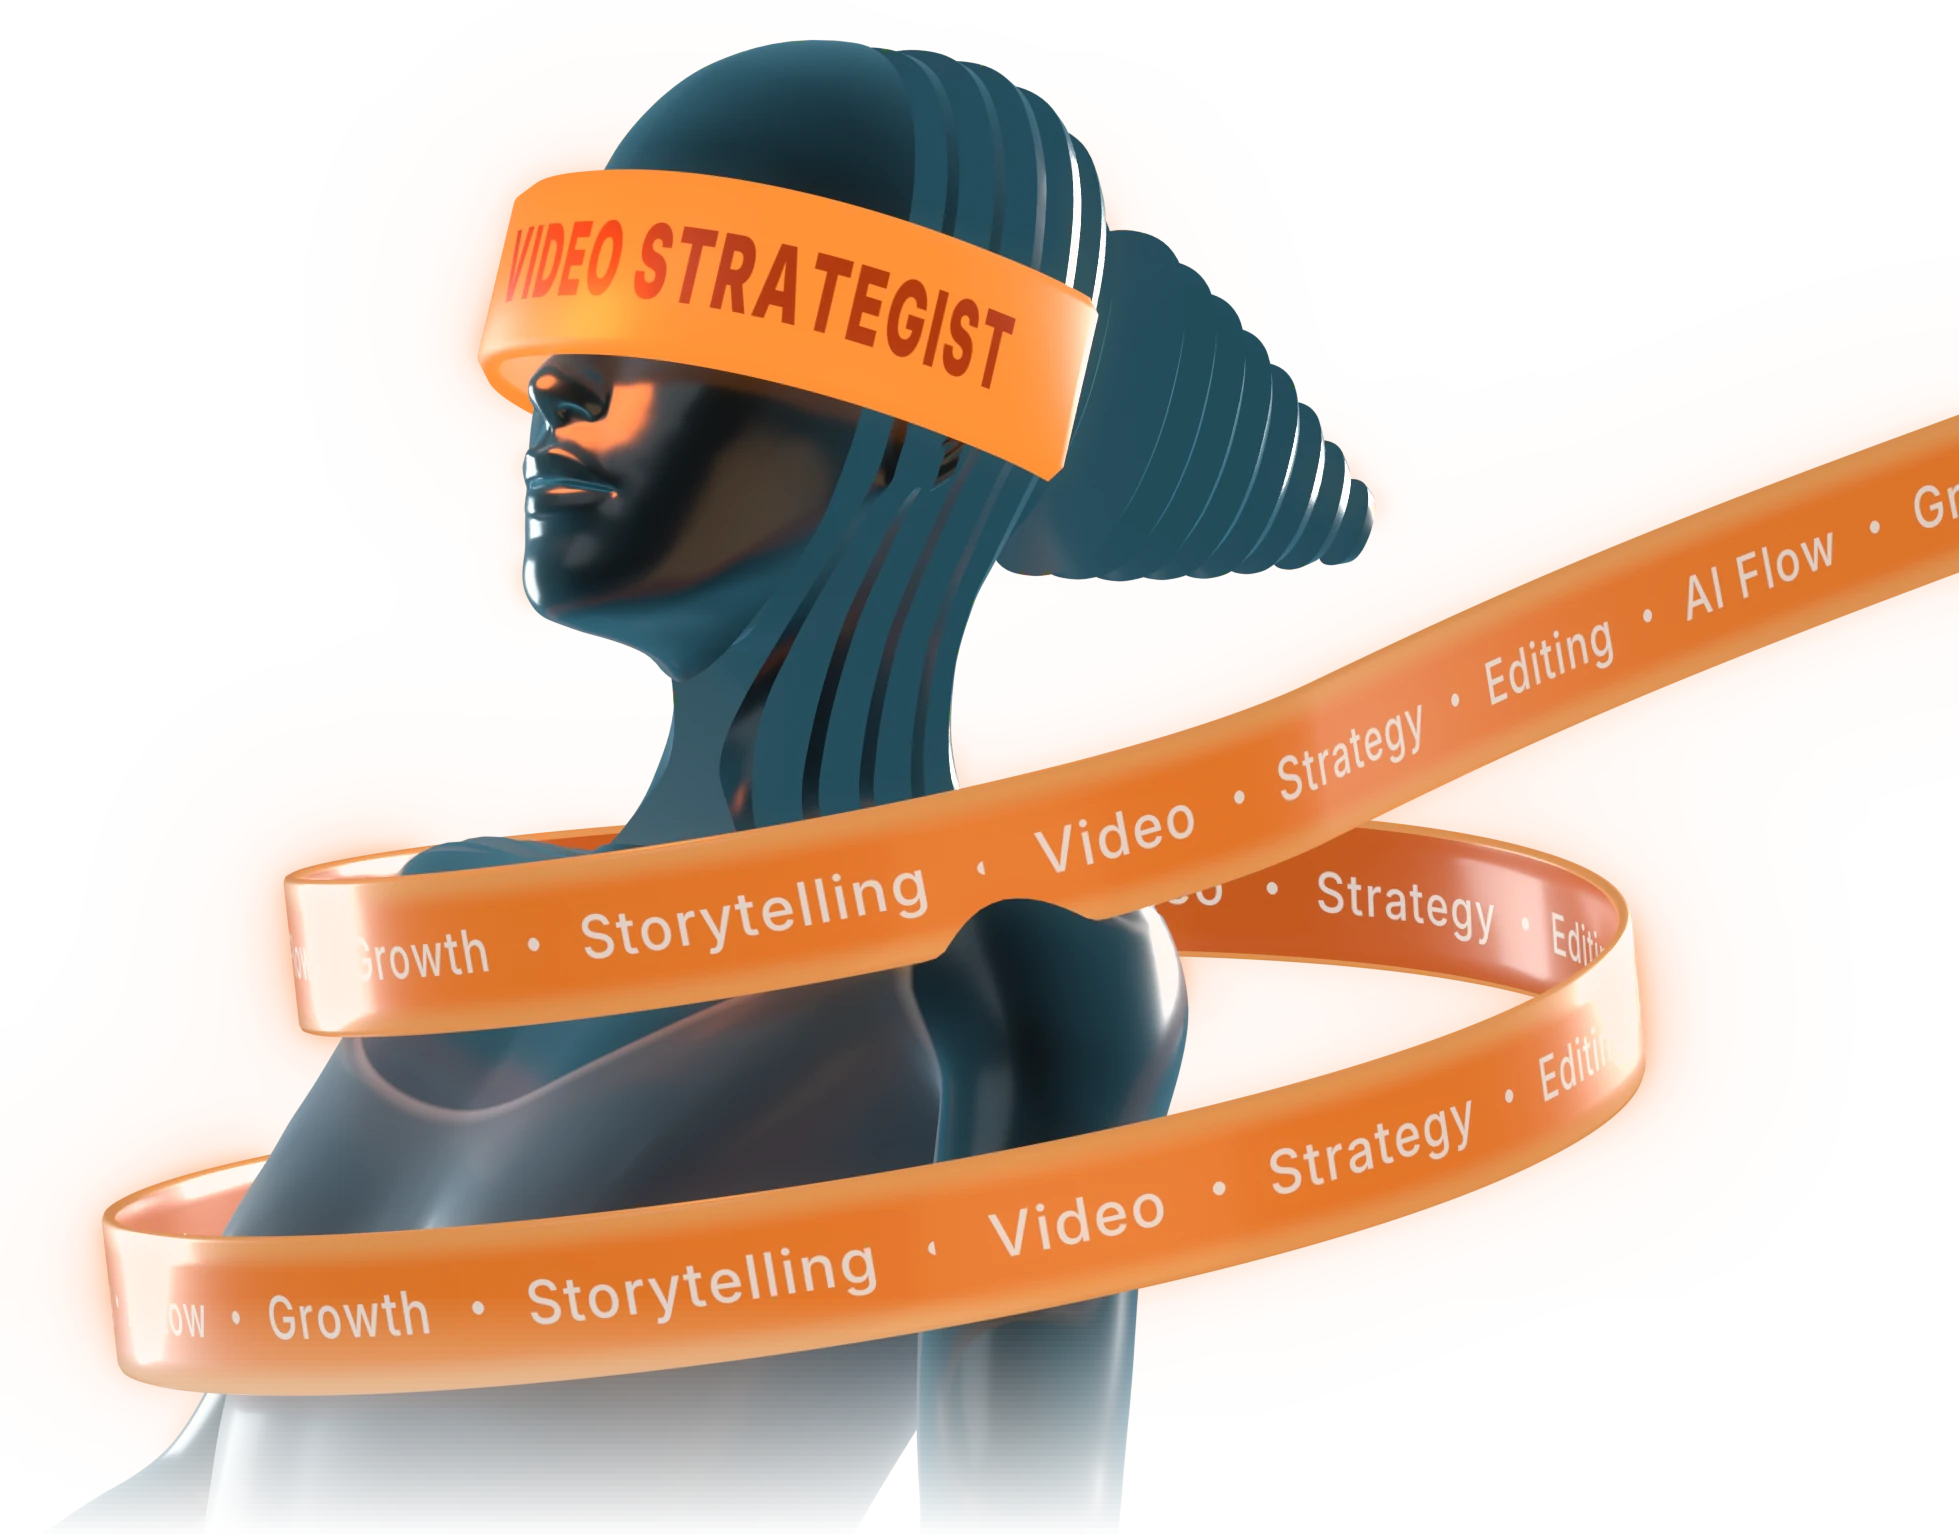
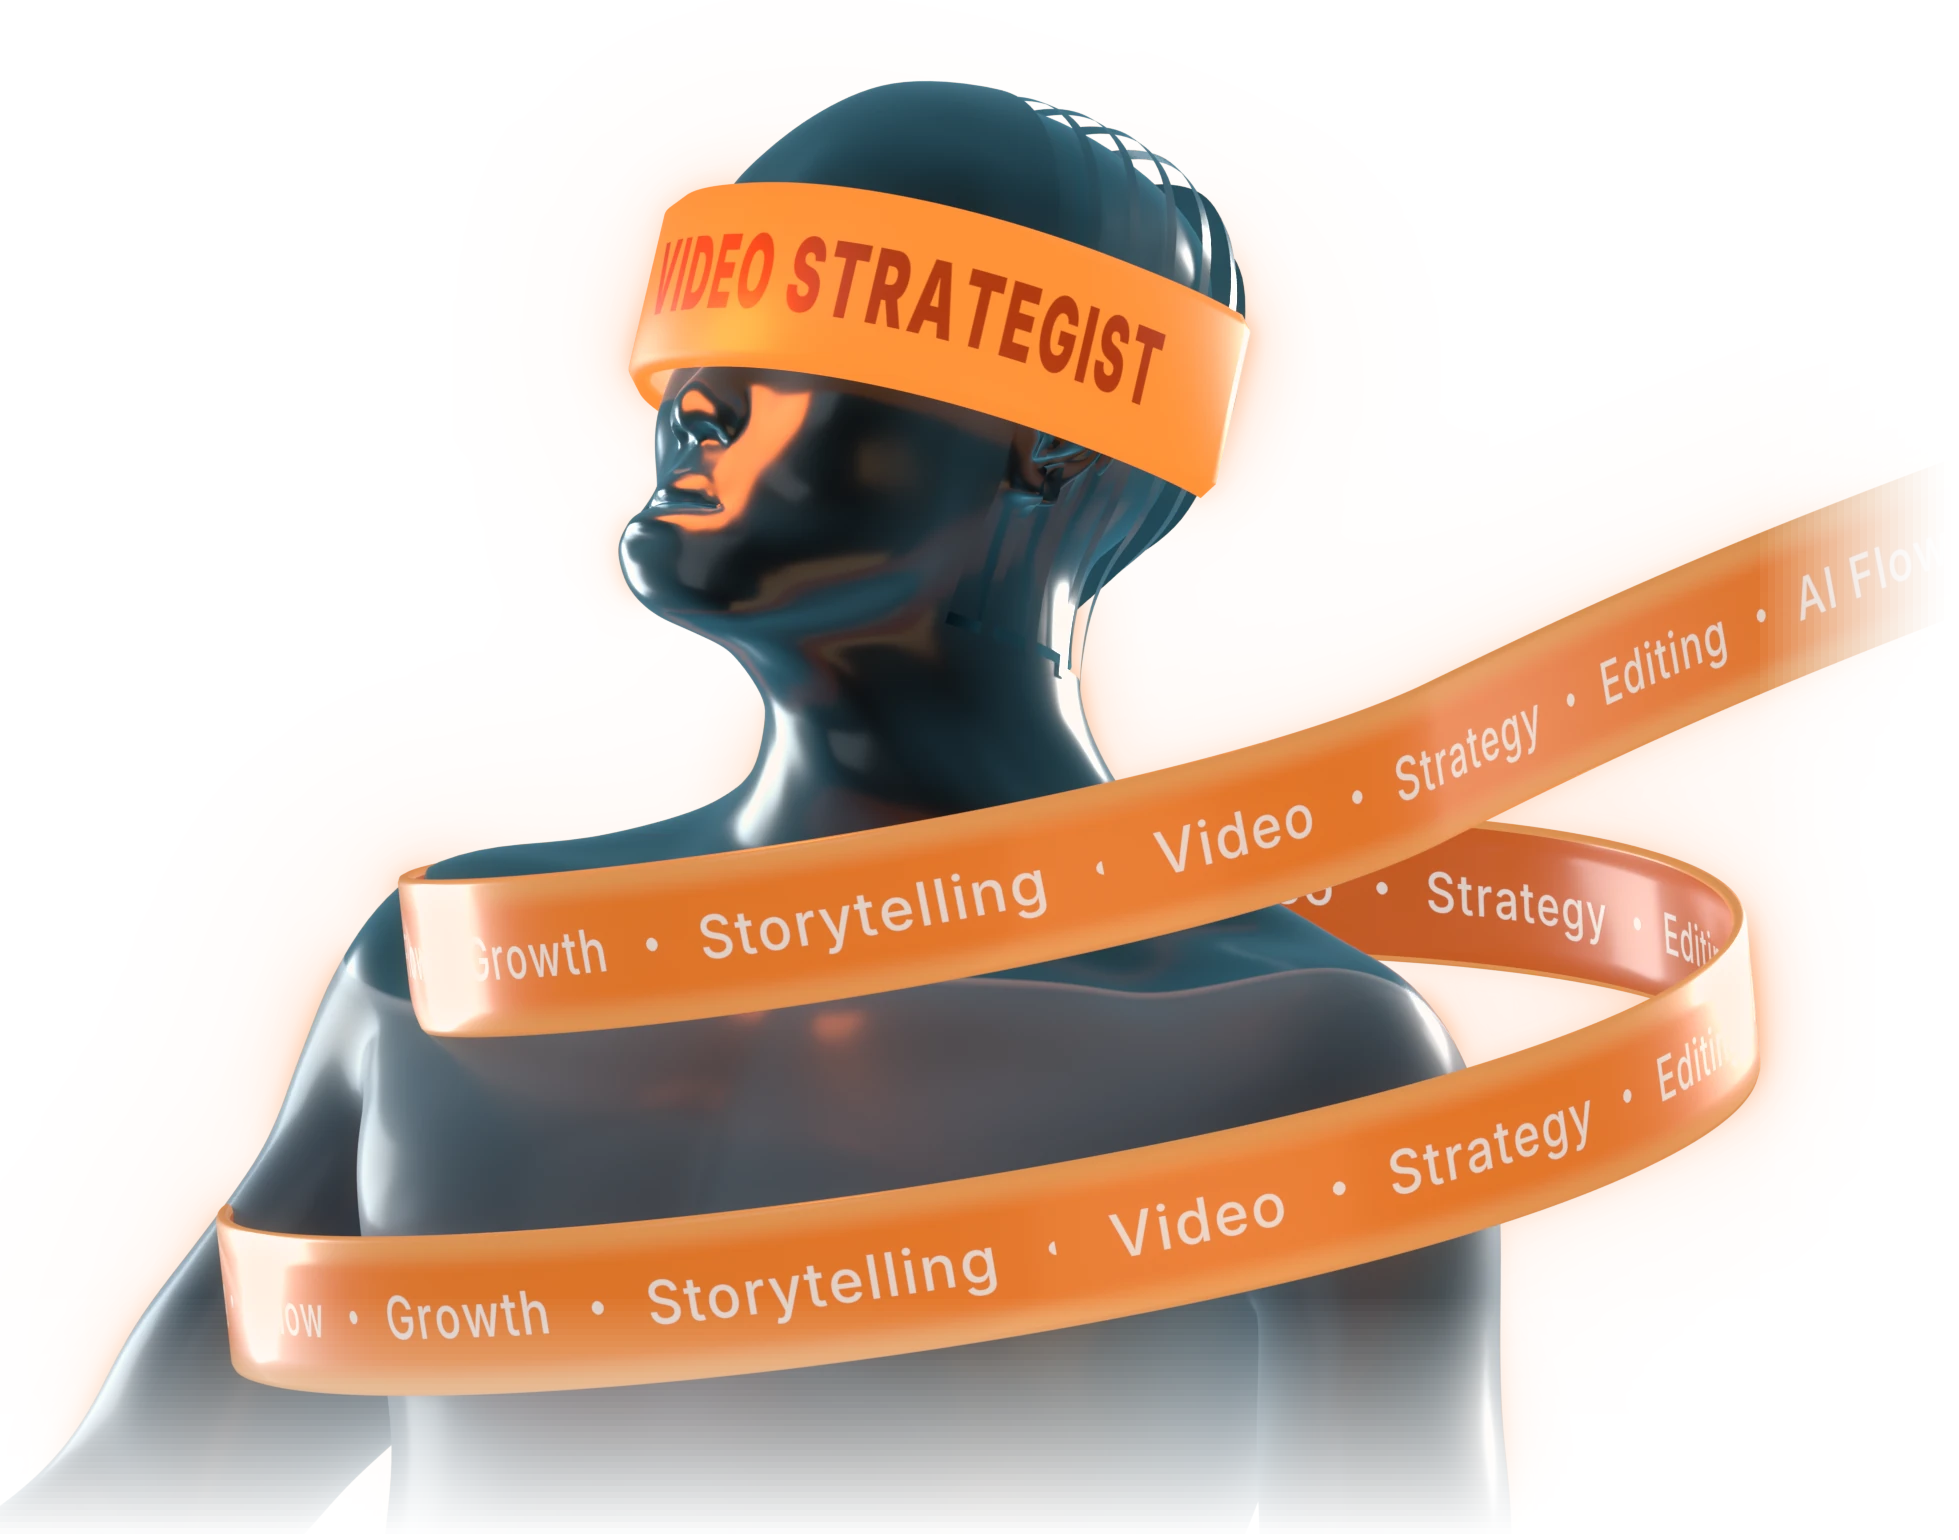
feat: make hero 3D character male (broader build, bald sliced head)
Claude-Session: https://claude.ai/code/session_01LaHUpMwY4YrQAK6Z1nxs6Q

diff --git a/src/components/01-Overview/HeroRibbon.tsx b/src/components/01-Overview/HeroRibbon.tsx
@@ -164,8 +164,8 @@ export default function HeroRibbon() {
           animate={{ opacity: 1, y: 0 }}
           transition={{ duration: 1.2, delay: 0.25, ease: EASE }}
           className="relative z-10 mt-4 h-[60vh] w-full
-                     lg:absolute lg:bottom-0 lg:left-[40%] lg:mt-0 lg:h-[80%] lg:w-auto lg:aspect-[1400/1100]
-                     xl:left-[30%] xl:h-[88%]"
+                     lg:absolute lg:bottom-0 lg:left-[34%] lg:mt-0 lg:h-[80%] lg:w-auto lg:aspect-[1400/1100]
+                     xl:left-[32%] xl:h-[88%]"
         >
           {/* Mobile: khung rộng hơn màn hình, canh giữa theo thân người */}
           <div className="absolute bottom-0 left-1/2 aspect-[1400/1100] h-full -translate-x-[38%] lg:static lg:translate-x-0">

diff --git a/tools/hero-3d/build.py b/tools/hero-3d/build.py
@@ -3,6 +3,8 @@
 #   https://raw.githubusercontent.com/makehumancommunity/makehuman/master/makehuman/data/3dobjs/base.obj
 # Chạy:  python build.py -- 1.4 96 final   →  python post.py final.png final-out.png  →  đổi final-out.png sang .webp
 # Đổi chữ: sửa VISOR_TXT (chữ trên kính) và words (chữ trên ruy băng) bên dưới rồi render lại.
+# Hình thể nam: cần thêm 2 file morph (CC0) từ MPFB2 đặt cạnh file này: asian-male-young.target.gz và
+#   universal-male-young-maxmuscle-averageweight.target.gz (src/mpfb/data/targets/macrodetails trong repo makehumancommunity/mpfb2)
 import bpy, bmesh, math, sys, os, collections
 from mathutils import Vector, Matrix
 from PIL import Image, ImageDraw, ImageFont
@@ -25,11 +27,22 @@ for l in open(OUT+'/base.obj'):
         idx=[int(t.split('/')[0])-1 for t in l.split()[1:]]
         if g=='body': faces.append(idx)
         elif g=='helper-l-eye': eye+=idx
+# male body shape: MakeHuman/MPFB2 morph targets (CC0)
+import gzip
+def target(name,w):
+    for l in gzip.open(OUT+'/'+name+'.target.gz','rt'):
+        t=l.split()
+        if len(t)!=4 or t[0].startswith('#'): continue
+        i=int(t[0]); dx,dy,dz=(float(v) for v in t[1:])
+        x,y,z=vs[i]; vs[i]=(x+dx*w,y-dz*w,z+dy*w)
+target('asian-male-young',1.0)
+target('universal-male-young-maxmuscle-averageweight',float(os.environ.get('MUSCLE','0.8')))
+EYEZ=sum(vs[i][2] for i in eye)/len(eye); EYEY=min(vs[i][1] for i in eye)
 used=sorted({i for f in faces for i in f}); remap={i:k for k,i in enumerate(used)}
 def smooth(a,b,x):
     t=max(0,min(1,(x-a)/(b-a))); return t*t*(3-2*t)
 for sign in (1,-1):
-    piv=Vector((sign*1.62,0.25,5.72))
+    piv=Vector((sign*1.62*1.0,0.25,5.72+(EYEZ-7.284)))
     def posed(ang):
         out=[]
         for (x,y,z) in vs:
@@ -41,8 +54,19 @@ for sign in (1,-1):
     A=math.radians(float(os.environ.get('ARM','20')))
     c1=posed(A*sign); c2=posed(-A*sign)
     vs=c1 if max(v[0]*sign for v in c1)<max(v[0]*sign for v in c2) else c2
+# masculine build: broader shoulders/chest, thicker neck; torso turned less than the head
+TW=math.radians(float(os.environ.get('TWIST','24')))
+_new=[]
+for (x,y,z) in vs:
+    wb=1-smooth(EYEZ-1.75,EYEZ-1.25,z)            # 1 on torso, 0 on head/neck
+    wn=smooth(EYEZ-1.9,EYEZ-1.45,z)*(1-smooth(EYEZ-0.95,EYEZ-0.6,z))   # neck band
+    x*=1+0.13*wb+0.14*wn; y=0.2+(y-0.2)*(1+0.06*wb+0.12*wn)
+    wt=1-smooth(EYEZ-1.7,EYEZ-0.85,z)             # torso twist weight
+    a=TW*wt; cx_,cy_=0.0,0.15
+    dx,dy=x-cx_,y-cy_
+    _new.append((cx_+dx*math.cos(a)-dy*math.sin(a), cy_+dx*math.sin(a)+dy*math.cos(a), z))
+vs=_new
 me=bpy.data.meshes.new("body"); me.from_pydata([vs[i] for i in used],[],[[remap[i] for i in f] for f in faces]); me.update()
-EYEZ=sum(vs[i][2] for i in eye)/len(eye); EYEY=min(vs[i][1] for i in eye)
 body=link(bpy.data.objects.new("body",me))
 mod=body.modifiers.new("s",'SUBSURF'); mod.levels=2; mod.render_levels=2
 dg=bpy.context.evaluated_depsgraph_get(); em=bpy.data.meshes.new_from_object(body.evaluated_get(dg))
@@ -59,11 +83,14 @@ def cut(bm,co,no,sharp=True):
     ed=[e for e in r['geom_cut'] if isinstance(e,bmesh.types.BMEdge)]
     if ed:
         f=bmesh.ops.triangle_fill(bm,edges=ed,use_beauty=True)
-        for x in f['geom']:
-            if isinstance(x,bmesh.types.BMFace): x.smooth=False
+        nf=[x for x in f['geom'] if isinstance(x,bmesh.types.BMFace)]
+        if not nf:
+            ed=[e for e in ed if e.is_valid and e.is_boundary]
+            nf=bmesh.ops.holes_fill(bm,edges=ed,sides=0)['faces'] if ed else []
+        for x in nf: x.smooth=False
         for e in ed: e.smooth=False
 Y0=HF+ (HB-HF)*0.40          # where slicing begins (just in front of the ear)
-ZC=EYEZ-1.75                 # fins only above this height (shoulder line)
+ZC=EYEZ-0.92                 # fins only above this height (shoulder line)
 for f in src.faces: f.smooth=True
 parts=[]
 a=src.copy(); cut(a,Vector((0,Y0,0)),Vector((0,1,0))); parts.append(a)                     # front
@@ -75,23 +102,34 @@ slabs=[]
 while y<HB+0.05:
     s=hb.copy(); cut(s,Vector((0,y,0)),Vector((0,-1,0))); cut(s,Vector((0,y+T,0)),Vector((0,1,0)))
     if len(s.faces):
-        sc_=1.0+0.045*min(k,8)
+        sc_=1.0+0.02*min(k,8)
         for v in s.verts:
-            if v.co.z>ZC+0.9:
-                w=min(1,(v.co.z-(ZC+0.9))/0.8)
+            if True:
+                w=1
                 v.co.x*=1+(sc_-1)*w; v.co.z=ZH+(v.co.z-ZH)*(1+(sc_-1)*w)
         parts.append(s); slabs.append((s,y))
     y+=T+G; k+=1
 # floating plates beyond the skull
-for s0,y0_ in reversed(slabs):
-    t_=s0.copy(); cut(t_,Vector((0,0,EYEZ-0.75)),Vector((0,0,-1)))
-    if len(t_.verts)>40 and max(v.co.z for v in t_.verts)-min(v.co.z for v in t_.verts)>1.2: s0=t_; break
-ylast=slabs[-1][1]; print("slabs",len(slabs),"base slab y",y0_,"last",ylast)
-for i,f in enumerate((0.95,0.88,0.8,0.7,0.6,0.48,0.36,0.24)):
-    s=s0.copy()
-    cx=0; cz=EYEZ+0.2
+# solid core inside the sliced region so the gaps read as dark grooves, not holes
+core=hb.copy(); cc=Vector((0,Y0,EYEZ+0.15))
+for v in core.verts:
+    v.co.x*=0.955; v.co.z=cc.z+(v.co.z-cc.z)*0.955; v.co.y=Y0+(v.co.y-Y0)*0.95
+parts.append(core)
+# echo discs trailing straight back from the skull (largest head cross-section, tapering)
+best=None
+for s_,y_ in slabs:
+    t_=s_.copy(); cut(t_,Vector((0,0,EYEZ-0.7)),Vector((0,0,-1)))
+    if len(t_.verts)<40: continue
+    h_=max(v.co.z for v in t_.verts)-min(v.co.z for v in t_.verts)
+    if best is None or h_>best[0]+0.02: best=(h_,t_,y_)
+s0,y0_=best[1],best[2]; ylast=slabs[-1][1]; print("slabs",len(slabs),"disc h",best[0])
+NDISC=int(os.environ.get('DISCS','0'))
+for i in range(NDISC):
+    f=0.92-0.17*i-0.01*i*i
+    s=s0.copy(); cz=EYEZ+0.2
+    dy=(ylast-y0_)+(T+G)*(i+1)
     for v in s.verts:
-        v.co.x*=f; v.co.z=cz+(v.co.z-cz)*f; v.co.y+= (ylast-y0_)+(T+G)*(i+1)
+        v.co.x*=f; v.co.z=cz+(v.co.z-cz)*f+0.20*(T+G)*(i+1); v.co.y+=dy
     parts.append(s)
 allbm=bmesh.new()
 for p in parts:
@@ -225,9 +263,10 @@ def mth(op,x,y=None,z=None):
         else: nt.links.new(v,n.inputs[i])
     return n.outputs[0]
 tc=nt.nodes.new("ShaderNodeTexCoord"); sx=nt.nodes.new("ShaderNodeSeparateXYZ"); nt.links.new(tc.outputs["Object"],sx.inputs[0])
-X,Y_,Z=sx.outputs
-neck=mth('ADD',mth('MULTIPLY',mth('MULTIPLY',X,X),0.40),SH_Z-0.80)
-strap=mth('ADD',mth('MULTIPLY',mth('MAXIMUM',mth('SUBTRACT',SH_Z-0.2,Z),0),0.25),1.62)
+X0,Y_,Z=sx.outputs
+X=mth('ADD',mth('MULTIPLY',X0,math.cos(TW)),mth('MULTIPLY',mth('SUBTRACT',Y_,0.15),math.sin(TW)))
+neck=mth('ADD',mth('MULTIPLY',mth('MULTIPLY',X,X),0.30),SH_Z-0.45)
+strap=mth('ADD',mth('MULTIPLY',mth('MAXIMUM',mth('SUBTRACT',SH_Z-0.2,Z),0),0.25),1.9)
 d=mth('MINIMUM',mth('SUBTRACT',neck,Z),mth('SUBTRACT',strap,mth('ABSOLUTE',X)))
 st=nt.nodes.new("ShaderNodeMapRange"); st.interpolation_type='SMOOTHSTEP'; nt.links.new(d,st.inputs[0]); st.inputs[1].default_value=-0.012; st.inputs[2].default_value=0.012
 hem=nt.nodes.new("ShaderNodeMapRange"); hem.interpolation_type='SMOOTHSTEP'; nt.links.new(d,hem.inputs[0]); hem.inputs[1].default_value=0.0; hem.inputs[2].default_value=0.07; hem.inputs[3].default_value=1; hem.inputs[4].default_value=0
@@ -269,7 +308,7 @@ ribbon.data.materials.append(m); ribbon.hide_render=bool(ribbon_hide)
 # ---------------- camera / light ----------------
 cam=bpy.data.cameras.new("c"); cam.lens=243; cam.sensor_width=36; cam.clip_end=1000
 co=link(bpy.data.objects.new("c",cam)); sc.camera=co
-target=Vector((0.2,0,EYEZ-1.2)); co.location=target+Vector((0,-46,-4.5))
+target=Vector((-0.2,0,EYEZ-1.2)); co.location=target+Vector((0,-46,-4.5))
 co.rotation_euler=(target-co.location).to_track_quat('-Z','Y').to_euler()
 w=bpy.data.worlds.new("w"); sc.world=w; w.use_nodes=True
 bg=w.node_tree.nodes["Background"]; bg.inputs[0].default_value=(0.9,0.93,1,1); bg.inputs[1].default_value=0.07

diff --git a/tools/hero-3d/post.py b/tools/hero-3d/post.py
@@ -18,5 +18,9 @@ l=Image.new("RGBA",im.size,(255,190,130,0)); l.putalpha(ga); out.alpha_composite
 # fade the bottom into the page
 fade=Image.linear_gradient("L").resize((W,H)).point(lambda v: 255 if v<215 else max(0,int(255*(1-(v-215)/40))))
 out.putalpha(ImageChops.multiply(out.getchannel("A"),fade))
+# soft fade on the left edge so the shoulder never ends in a hard cut
+lf=Image.linear_gradient("L").rotate(90,expand=True).resize((W,H)).transpose(Image.FLIP_LEFT_RIGHT)
+lf=lf.point(lambda v: 255 if v>26 else int(255*(v/26)**1.5))
+out.putalpha(ImageChops.multiply(out.getchannel("A"),lf))
 out.save(dst)
 bg=Image.new("RGBA",im.size,(244,242,238,255)); bg.alpha_composite(out); bg.convert("RGB").save(dst.rsplit('.',1)[0]+"-preview.jpg",quality=88)
